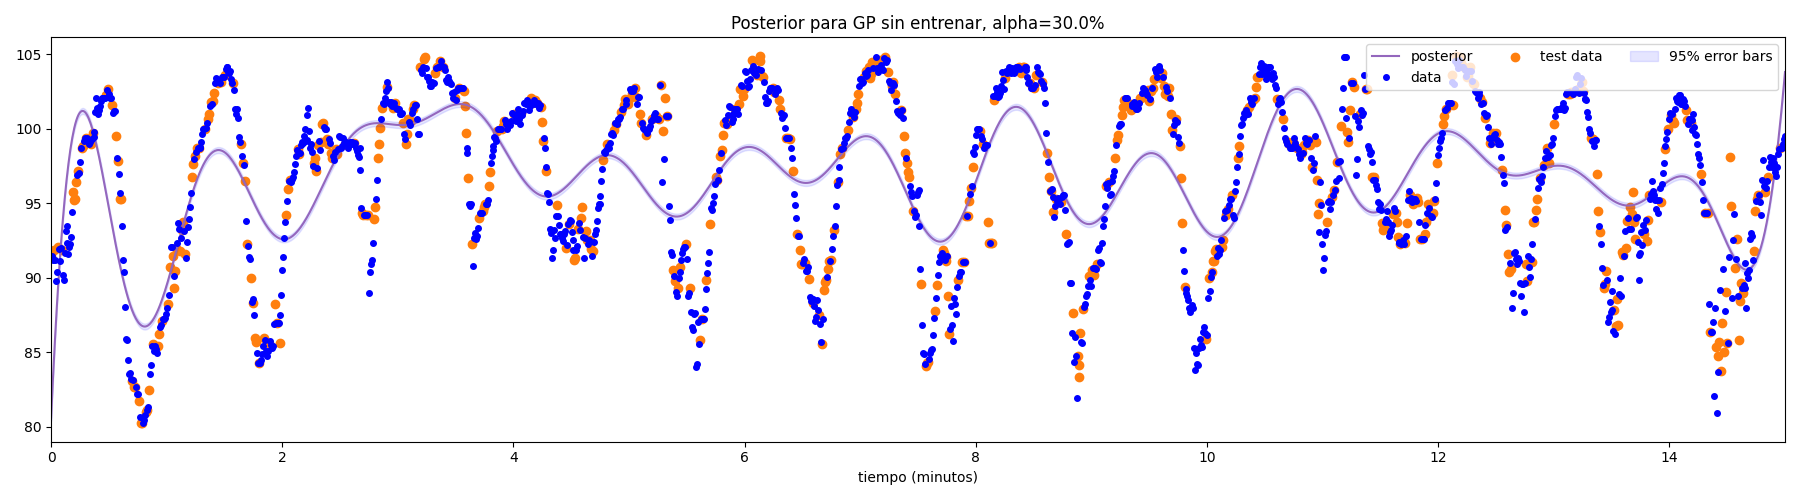
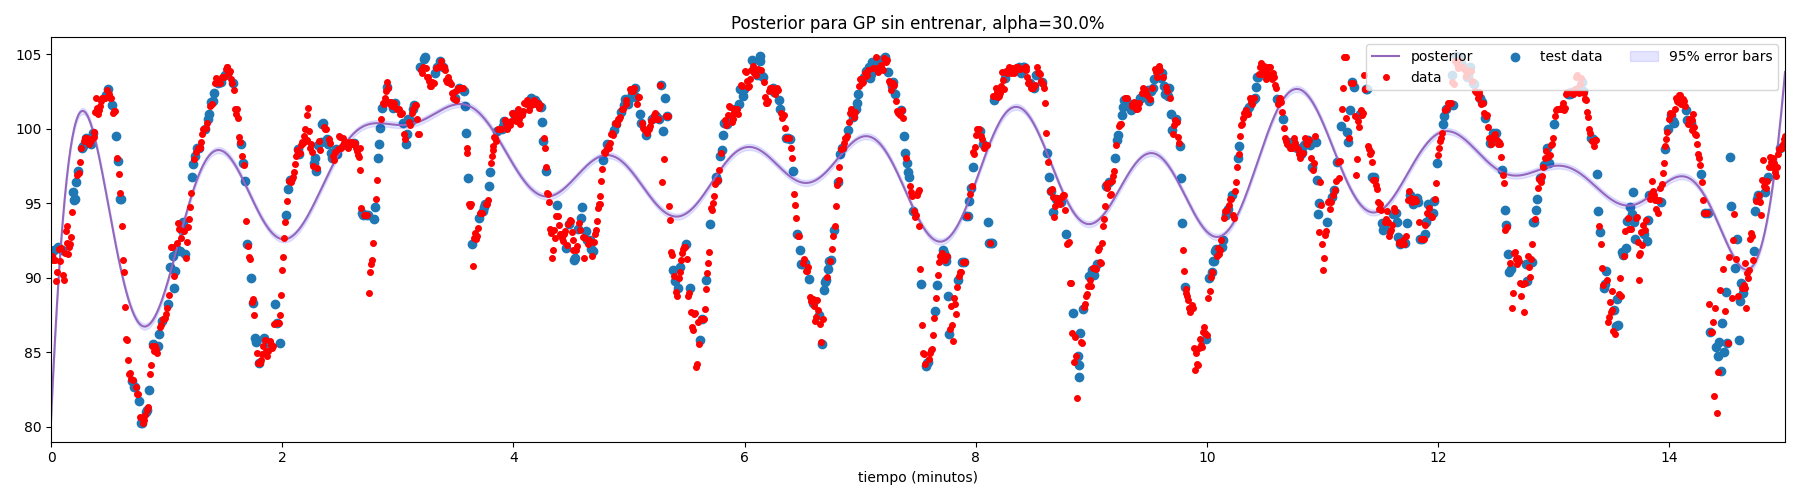
updte plots color puntos observados

diff --git a/unidad_2/tarea_3/plot.py b/unidad_2/tarea_3/plot.py
@@ -71,10 +71,10 @@ def plot_posterior(gp_obj,n_samples=0,test_points=None,test_times=None,fig_size=
     plt.figure(figsize=fig_size)
     plt.plot(gp_obj.time,gp_obj.mean, 'tab:purple', label='posterior')
 
-    plt.plot(gp_obj.x,gp_obj.y, '.b', markersize = 8, label='data')
+    plt.plot(gp_obj.x,gp_obj.y, '.r', markersize = 8, label='data')
 
     if test_points is not None:
-        plt.scatter(x=test_times,y=test_points, color='tab:orange', label='test data')
+        plt.scatter(x=test_times,y=test_points, color='tab:blue', label='test data')
 
     error_bars = 2 * np.sqrt((np.diag(gp_obj.cov)))
     plt.fill_between(gp_obj.time, gp_obj.mean - error_bars, gp_obj.mean + error_bars, color='blue',alpha=0.1, label='95% error bars')
